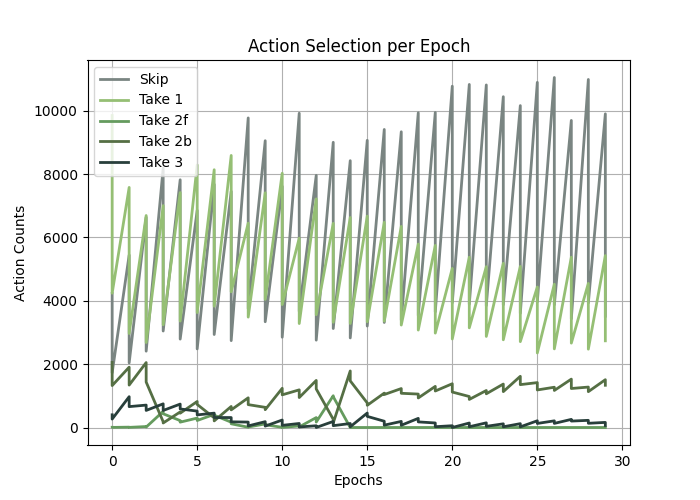
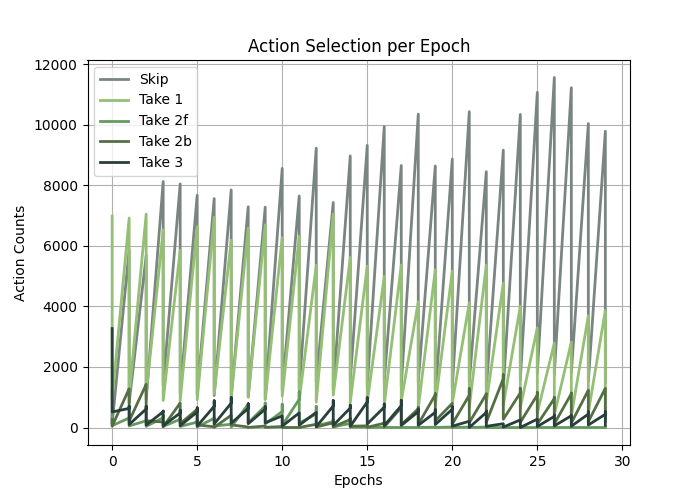
here we go again

diff --git a/retrieval/retrieval_5_2_rl_test.py b/retrieval/retrieval_5_2_rl_test.py
@@ -16,8 +16,8 @@ from retrieval.DuelingDQN import DuelingDQN
 
 
 now_str = datetime.now().strftime("%Y-%m-%d %H:%M:%S")
-random.seed(39)
-torch.manual_seed(39)
+random.seed(1)
+torch.manual_seed(1)
 
 def compute_stream_ablation_importance(online_net, data, query_ids, device, max_exp_loops, n_samples=1000):
     import os
@@ -125,7 +125,7 @@ def compute_stream_ablation_importance(online_net, data, query_ids, device, max_
 
     # Color by feature type
     sorted_is_meta = [sort_idx[i] < n_meta for i in range(len(sort_idx))]
-    colors = ["steelblue" if is_meta else "darkorange" for is_meta in sorted_is_meta]
+    colors = ["steelblue" if is_meta else "steelblue" for is_meta in sorted_is_meta]
 
     y = np.arange(len(labels))
 
@@ -143,13 +143,8 @@ def compute_stream_ablation_importance(online_net, data, query_ids, device, max_
 
     # Legend for feature type
     from matplotlib.patches import Patch
-    legend_elements = [
-        Patch(facecolor="steelblue",  label="Metadata"),
-        Patch(facecolor="darkorange", label="Embedding group"),
-    ]
-    plt.legend(handles=legend_elements)
     plt.tight_layout()
-    plt.savefig("feature_importance/ablation_importance.png", dpi=150)
+    plt.savefig("ablation_importance.png", dpi=150)
     plt.close()
 
     # --- Console summary ---
@@ -388,7 +383,7 @@ def evaluate(data, query_ids, online_net, device, max_exp_loops):
 
 def test():
 
-    logging.basicConfig(filename='rl_testing.log', level=logging.INFO, format='%(asctime)s - %(message)s', filemode="w")
+    # logging.basicConfig(filename='rl_testing.log', level=logging.INFO, format='%(asctime)s - %(message)s', filemode="w")
 
     pages_path_test = f"data_3_embed/pages_chunked_emb_test.json"
     relevant_path_test = f"data_3_embed/relevant_chunks_emb_test.json"
@@ -407,12 +402,12 @@ def test():
     model.load_state_dict(torch.load("models/rl-chunk-retriever_BEEEEEST22.pt", map_location="cpu")) #rl-chunk-retriever copy
     model.eval()
 
-    avg_val_reward, avg_val_f1_score, avg_val_recall, avg_val_precision, results = evaluate(
-        data_test, data_test.query_ids, model, device, 
-        max_exp_loops = 1
-    )
-    logging.info(f"GREEDY: TEST Reward: {avg_val_reward:.4f}, TEST F1: {avg_val_f1_score:.4f}")
-    print(f"GREEDY: TEST - Reward: {avg_val_reward:.4f}, F1: {avg_val_f1_score:.4f}")
+    # avg_val_reward, avg_val_f1_score, avg_val_recall, avg_val_precision, results = evaluate(
+    #     data_test, data_test.query_ids, model, device, 
+    #     max_exp_loops = 1
+    # )
+    # logging.info(f"GREEDY: TEST Reward: {avg_val_reward:.4f}, TEST F1: {avg_val_f1_score:.4f}")
+    # print(f"GREEDY: TEST - Reward: {avg_val_reward:.4f}, F1: {avg_val_f1_score:.4f}")
 
     # output_dir = "data_5_analysis"
     # os.makedirs(output_dir, exist_ok=True)
@@ -436,6 +431,6 @@ def test():
     #     model, data_test, data_test.query_ids, device, max_exp_loops = 1, n_samples=100 #  + validation_set
     # )
 
-    # compute_stream_ablation_importance(
-    #     model, data_test, data_test.query_ids, device, max_exp_loops = 1, n_samples=100 #  + validation_set
-    # )
+    compute_stream_ablation_importance(
+        model, data_test, data_test.query_ids, device, max_exp_loops = 1, n_samples=200 #  + validation_set
+    )

diff --git a/retrieval/retrieval_5_1_rl_train.py b/retrieval/retrieval_5_1_rl_train.py
@@ -104,7 +104,7 @@ def evaluate(data, query_ids, online_net, device, max_exp_loops, history, epoch)
     actions_f = [epoch_counts['skip'], epoch_counts['take_1'], epoch_counts['take_2n'], epoch_counts['take_2p'], epoch_counts['take_3']]
     second_index, first_value = sorted(enumerate(actions_f), key=lambda x: x[1])[0]
     second_index, second_value = sorted(enumerate(actions_f), key=lambda x: x[1])[1]
-    if second_value + first_value < 50:
+    if second_value + first_value < 50: #50
         weights = [1 / (f + 500) for f in actions_f]
         total = sum(weights)
         probs = [w / total for w in weights]
@@ -124,7 +124,9 @@ def train():
     data.load_relevant()
     data.load_cosine_sim()
 
-    train_set, validation_set = data.balanced_split_query_ids(data.query_ids, 0.66)
+    train_set, validation_set = data.balanced_split_query_ids(data.query_ids, 0.6)
+
+    #full_set, _ = data.balanced_split_query_ids(data.query_ids, 1)
 
     best_score = 0
     metadata_dim = 6
@@ -340,8 +342,7 @@ def train():
         train_rewards.append(avg_train_reward)
         train_recalls.append(recall_train)
 
-
-        avg_val_reward, avg_val_f1_score, recall_val, precision_val, history, probs = evaluate(
+        avg_val_reward, avg_val_f1_score, recall_val, precision_val, history, _ = evaluate(
             data, validation_set, online_net, device,
             max_exp_loops, history, epoch
         )
@@ -350,6 +351,11 @@ def train():
         val_f1_scores.append(avg_val_f1_score)
         val_rewards.append(avg_val_reward)
         val_recalls.append(recall_val)
+
+        _, _, _, _, _, probs = evaluate(
+            data, random.sample(train_set, 50), online_net, device,
+            max_exp_loops, history, epoch
+        )
 
 
 
